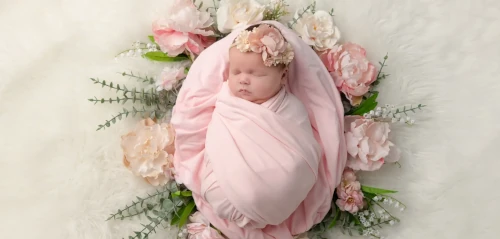
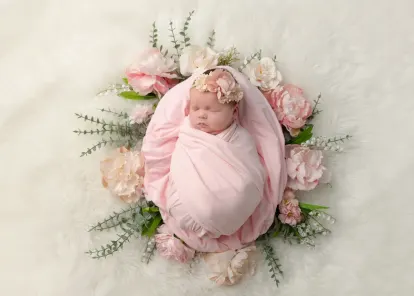
Re-encode hero images at proper dimensions (7 MB → 105 KB for 1800w)
Source was 6480x4629 stored as "1800w.webp". Re-encoded all variants
at correct widths with cwebp. Added 1200w breakpoint for mid-size
desktops. Updated img dimensions to match actual aspect ratio.

diff --git a/design/pagespeed-audit.md b/design/pagespeed-audit.md
@@ -31,11 +31,10 @@
   Added explicit `width`/`height` (333×500) to both mobile and desktop portrait `<img>`, `aspect-ratio: 333/500` on the desktop container, and removed `loading="lazy"` on desktop (above the fold).
   - **File:** `src/components/Welcome.astro`
 
-- [ ] **2. LCP 7.1–7.2 s — hero image delivery**
-  The hero `<picture>` element serves a 7.0 MB `HeroImage.1800w.webp` on desktop. Mobile uses smaller breakpoints but is still slow. Estimated savings: 7,008 KiB (desktop), 49 KiB (mobile).
-  - The `1800w` variant is 7.0 MB — far too large
-  - Mobile serves appropriately sized variants (414w–900w) but the desktop fallback is massive
-  - **Action:** Re-compress or re-export the 1800w hero image at much lower file size. Consider adding a 1200w breakpoint. Ensure AVIF sources are available alongside WebP.
+- [x] **2. LCP 7.1–7.2 s — hero image delivery**
+  Re-encoded all hero WebP variants with `cwebp` at proper dimensions (source was 6480×4629 stored as "1800w"). Added 1200w breakpoint. Updated `<img>` dimensions to match actual aspect ratio.
+  - 1800w: 7.0 MB → 105 KB | 1200w: new, 53 KB | 900w: 30 → 35 KB | 600w: 17 → 20 KB | 414w: 19 → 10 KB
+  - **Files:** `public/HeroImage.*.webp`, `src/components/HeroSection.astro`
 
 - [ ] **3. Image elements do not have explicit `width` and `height`**
   Missing dimensions prevent the browser from reserving layout space, contributing to CLS and slower rendering.
